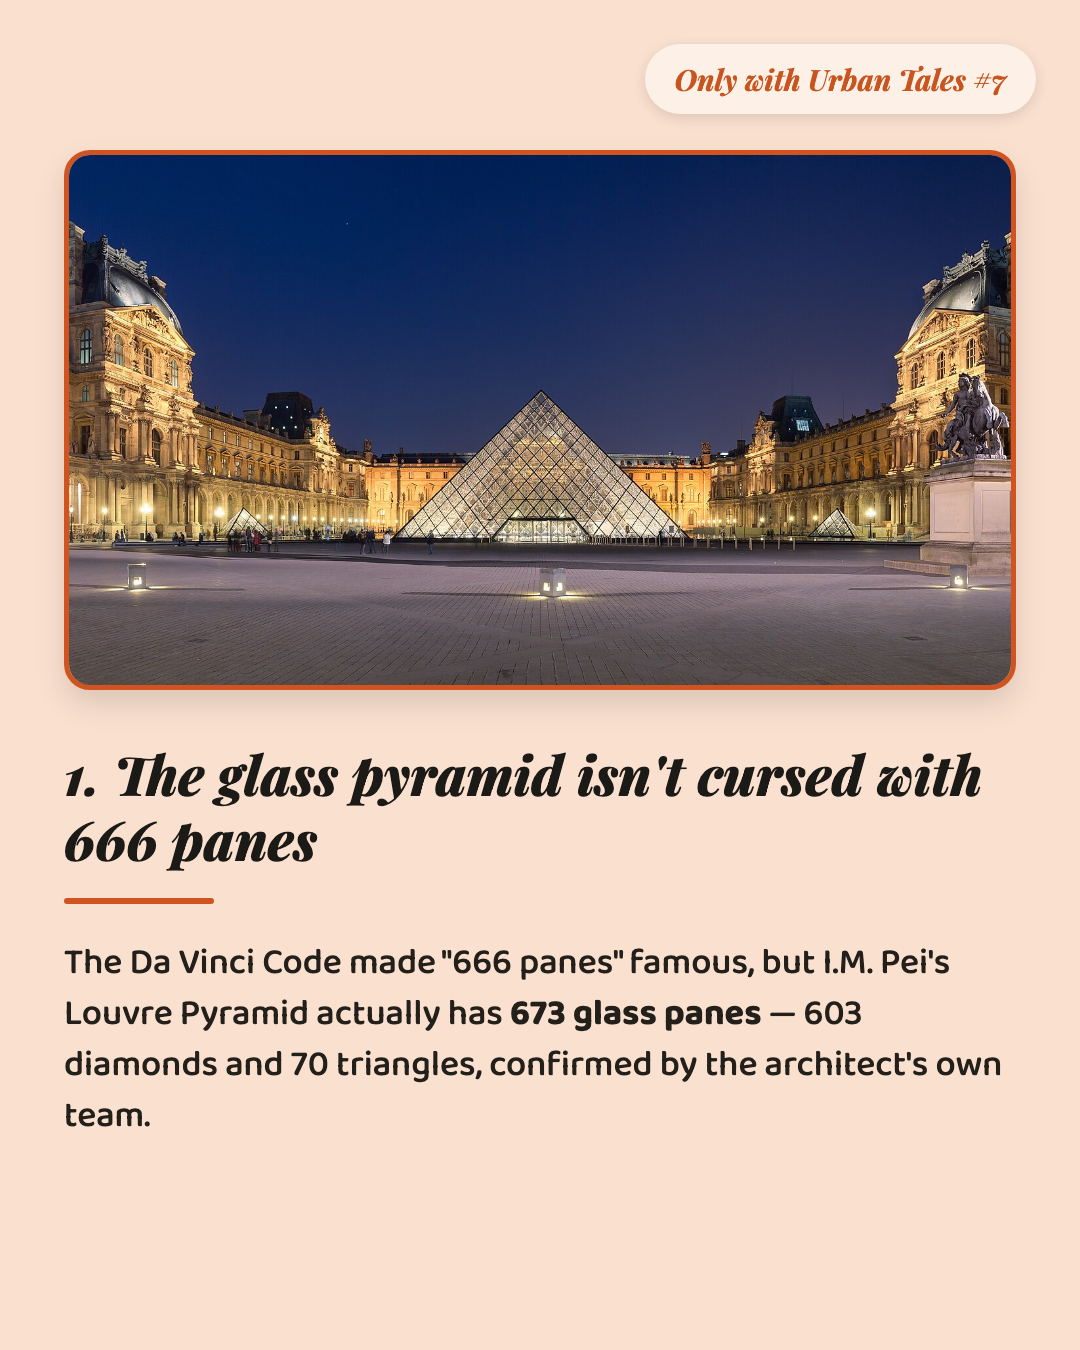
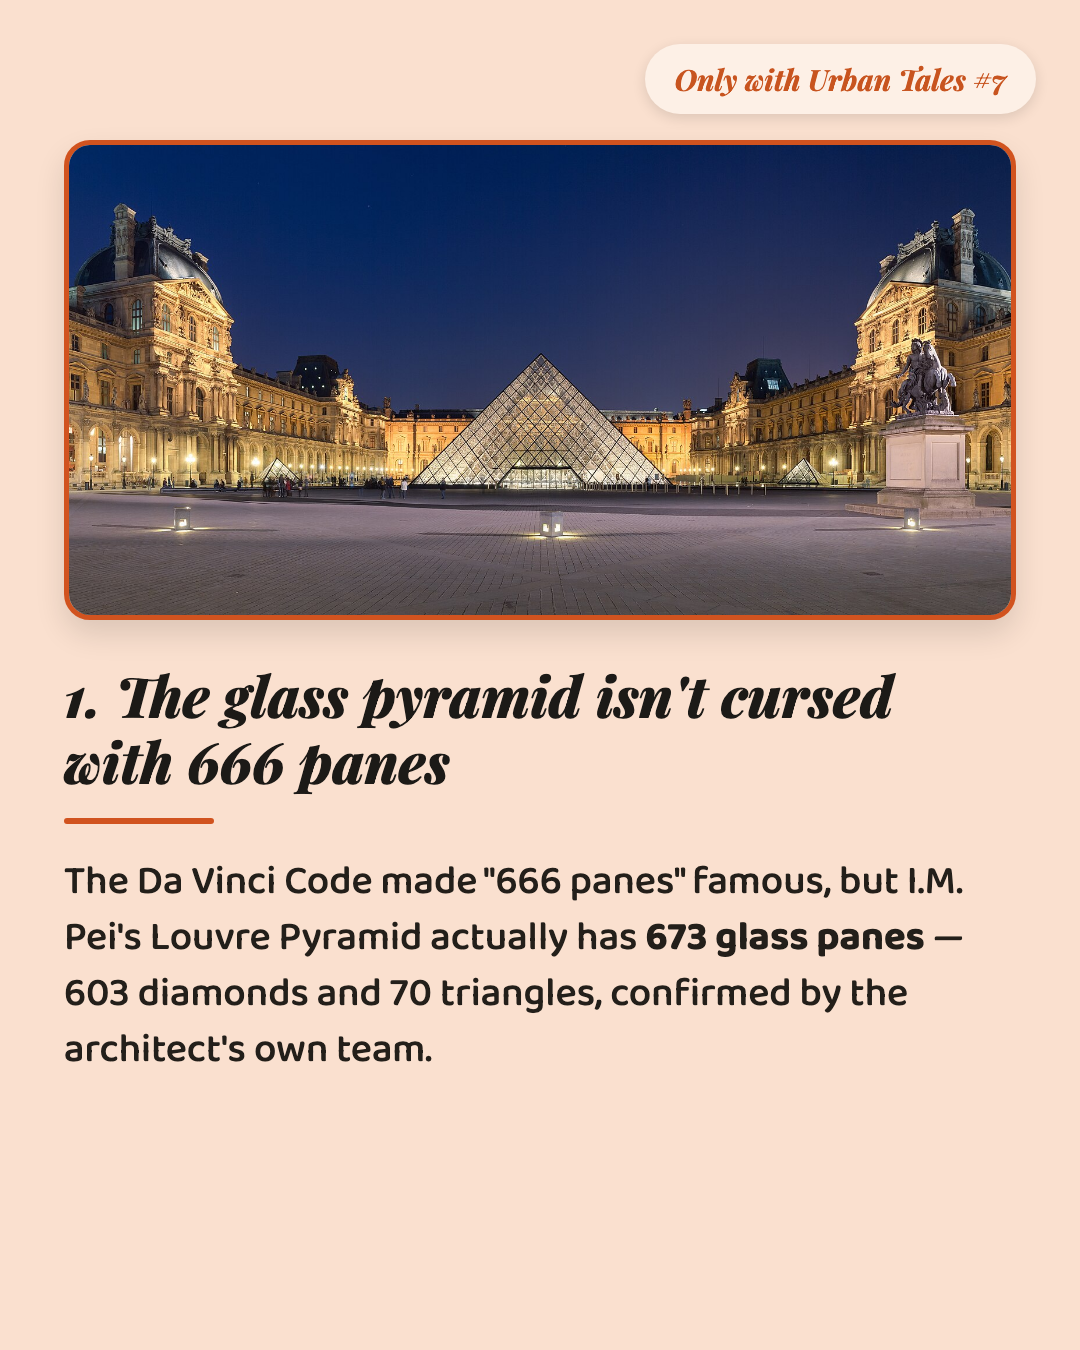
Improve carousel template: bigger fact-slide type, redesigned CTA
Fact slides were leaving ~260px of dead space at the bottom with
small, hard-to-read text — bumped headline/body sizes and tightened
margins to fill the canvas properly (tuned against the longest
headline in this batch to avoid overflow).

CTA slide redesign: content block is now vertically centered against
the phone frame as one cohesive group (was two disconnected anchor
points with a large void between them), the bottom link is a real
button instead of floating text, and added a subtle warm glow behind
the phone for depth.

Changed region(s): [[0.0611, 0.1556, 0.9472, 0.84], [0.0611, 0.0933, 0.9472, 0.1244]]

diff --git a/carousel/render.py b/carousel/render.py
@@ -90,15 +90,15 @@ def main():
         fact_html = f"""
         <div style="width:1080px;height:1350px;background:#fae0cf;position:relative;">
           <div class="badge">Only with Urban Tales #{badge}</div>
-          <div style="position:absolute; top:150px; left:64px; right:64px;">
-            <div style="width:952px; height:540px; border-radius:26px; border:5px solid #d1531f; overflow:hidden; box-shadow:0 14px 30px rgba(0,0,0,0.12);">
+          <div style="position:absolute; top:140px; left:64px; right:64px;">
+            <div style="width:952px; height:480px; border-radius:26px; border:5px solid #d1531f; overflow:hidden; box-shadow:0 14px 30px rgba(0,0,0,0.12);">
               <img src="{img}" style="width:100%; height:100%; object-fit:cover;">
             </div>
-            <div style="font-family:'Playfair Display'; font-style:italic; font-weight:800; font-size:54px; color:#1c1a17; line-height:1.2; margin-top:52px;">
+            <div style="font-family:'Playfair Display'; font-style:italic; font-weight:800; font-size:56px; color:#1c1a17; line-height:1.18; margin-top:42px;">
               {i}. {fact['headline']}
             </div>
-            <div style="width:150px; height:6px; background:#d1531f; margin-top:26px; border-radius:3px;"></div>
-            <div style="font-family:'Baloo 2'; font-weight:500; font-size:36px; color:#231f1a; line-height:1.42; margin-top:34px;">
+            <div style="width:150px; height:6px; background:#d1531f; margin-top:24px; border-radius:3px;"></div>
+            <div style="font-family:'Baloo 2'; font-weight:500; font-size:40px; color:#231f1a; line-height:1.4; margin-top:30px;">
               {fact['body_html']}
             </div>
           </div>
@@ -110,25 +110,28 @@ def main():
     # slide 9: CTA
     cta_screenshot = spec["cta_screenshot"]
     cta = f"""
-    <div style="width:1080px;height:1350px;background:#111110;position:relative;">
+    <div style="width:1080px;height:1350px;background:#111110;position:relative;overflow:hidden;">
+      <div style="position:absolute; top:50%; left:18%; width:900px; height:900px; transform:translate(-50%,-50%); background:radial-gradient(circle, rgba(209,83,31,0.32) 0%, rgba(209,83,31,0) 62%); pointer-events:none;"></div>
       <div class="badge">Only with Urban Tales #{badge}</div>
-      <div style="position:absolute; top:230px; left:70px; width:430px; height:900px; border-radius:52px; border:12px solid #f2ede6; overflow:hidden; box-shadow:0 20px 50px rgba(0,0,0,0.5);">
+      <div style="position:absolute; top:230px; left:70px; width:430px; height:900px; border-radius:52px; border:12px solid #f2ede6; overflow:hidden; box-shadow:0 20px 50px rgba(0,0,0,0.5); z-index:2;">
         <img src="{cta_screenshot}" style="width:100%; height:100%; object-fit:cover;">
       </div>
-      <div style="position:absolute; top:270px; left:560px; width:450px;">
-        <div style="font-family:'Playfair Display'; font-style:italic; font-weight:800; font-size:54px; color:#f2ede6; line-height:1.28;">
+      <div style="position:absolute; top:230px; left:560px; width:450px; height:900px; display:flex; flex-direction:column; justify-content:center; gap:40px; z-index:2;">
+        <div style="font-family:'Playfair Display'; font-style:italic; font-weight:800; font-size:56px; color:#f2ede6; line-height:1.26;">
           If you want to explore the cities, not just pass by
         </div>
-        <div style="margin-top:60px;">
-          <img src="icon.png" style="width:130px; height:130px; border-radius:32px; box-shadow:0 10px 24px rgba(0,0,0,0.4);">
+        <div style="display:flex; align-items:center; gap:22px;">
+          <img src="icon.png" style="width:104px; height:104px; border-radius:26px; box-shadow:0 10px 24px rgba(0,0,0,0.4); flex-shrink:0;">
+          <div style="font-family:'Playfair Display'; font-style:italic; font-weight:800; font-size:38px; color:#d1531f; line-height:1.22;">
+            Turn cities into stories
+          </div>
         </div>
-        <div style="font-family:'Playfair Display'; font-style:italic; font-weight:800; font-size:42px; color:#d1531f; line-height:1.25; margin-top:30px;">
-          Turn cities into stories
-        </div>
+        <a style="display:inline-flex; align-items:center; gap:12px; background:#d1531f; color:#fff8f0; font-family:'Baloo 2'; font-weight:700; font-size:32px; padding:22px 34px; border-radius:18px; box-shadow:0 10px 26px rgba(0,0,0,0.35); width:fit-content;">
+            urbantales.net <span style="font-size:28px;">&rarr;</span>
+        </a>
       </div>
-      <div style="position:absolute; bottom:90px; left:0; right:0; text-align:center;">
-        <div style="font-family:'Baloo 2'; font-weight:700; font-size:38px; color:#f2ede6;">Link in bio &rarr;</div>
-        <div style="font-family:'Baloo 2'; font-weight:700; font-size:38px; color:#f2ede6; margin-top:6px;">https://urbantales.net</div>
+      <div style="position:absolute; bottom:56px; left:0; right:0; text-align:center; z-index:2;">
+        <div style="font-family:'Baloo 2'; font-weight:600; font-size:26px; color:#9a8878; letter-spacing:0.04em; text-transform:uppercase;">Link in bio</div>
       </div>
     </div>
     """
